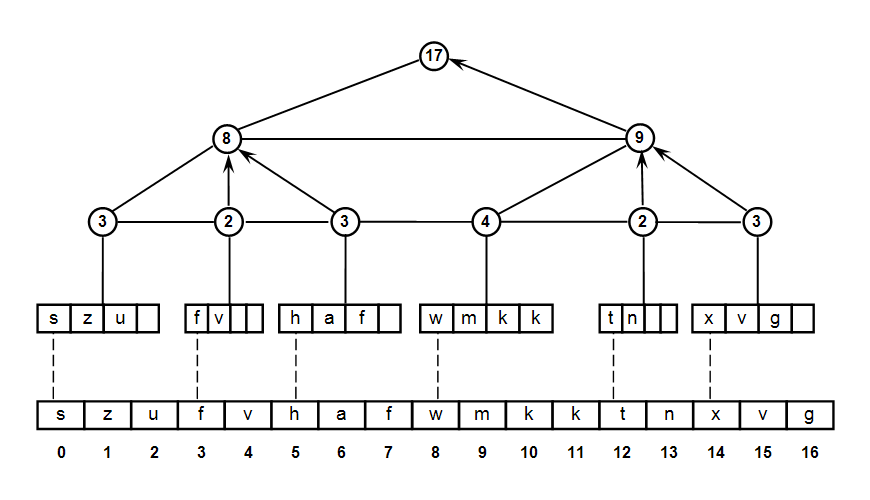
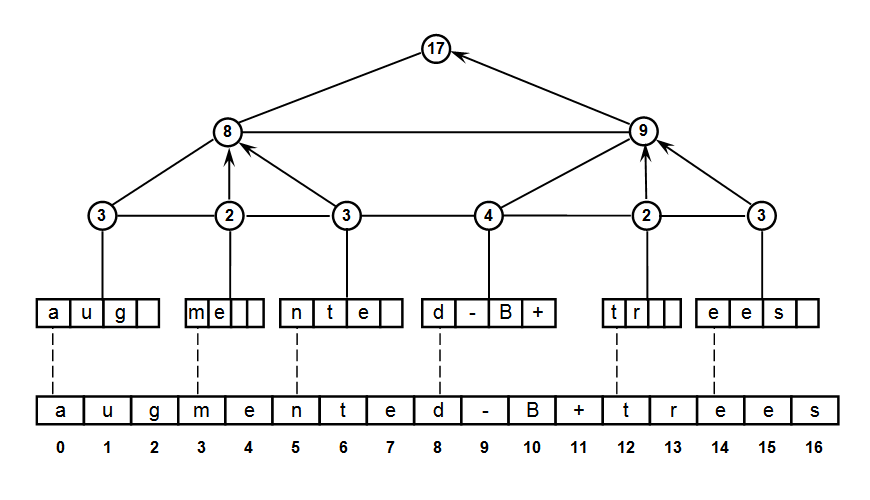
add examples of string algorithms

Changed region(s): [[0.031, 0.06, 0.9931, 0.93]]

diff --git a/doc/doc/examples.html b/doc/doc/examples.html
@@ -39,6 +39,7 @@
 
 <div class="div_f1_frame"> 
   <dl>
+    <dd class="dd_f1"><a class="link_under" href="#ex_string">Efficient string algorithms</a></dd>  
     <dd class="dd_f1"><a class="link_under" href="#ex_interval">Fast counting of intersections of one interval with sequence of intervals</a></dd>
     <dd class="dd_f1"><a class="link_under" href="#ex_mean_val">Mean value</a></dd>
     <dd class="dd_f1"><a class="link_under" href="#ex_adv_exam">Advanced examples using fast algorithm <cod>accumulate()</code></a></dd>
@@ -69,12 +70,143 @@
     <p>
     In order to simplify the demo code and focus on the main features of algorithms 
     based on the advanced data structures, the data members of classes specific to 
-    problem domains are of type <code>int</code>. The algorithms operating with 
+    numerical problem domains are of type <code>int</code>. The algorithms operating with 
     integral types take advantage of precise values and use relational and equality 
     operators without a tolerance parameter. In practical applications, data types 
     and operations can be parameterized to support generic algorithms.     
     </p>
+
+
+    <a name="ex_string"></a>
+    <h4 class="h4_f1">
+    Efficient string algorithms
+    </h4>  
+
+    <p>
+    The efficient string algorithms and text editors are major applications 
+    for advanced and augmented data structures. 
+    <a href="http://en.wikipedia.org/wiki/Rope_(data_structure)">Rope</a> 
+    data structure provides several string operations 
+    more efficient than an array or a linked list.     
+    An augmented Finger Tree is another data structure with comparable facilities. 
+    It is used in the functional programming language Haskell for implementation of the 
+    <a href="http://www.haskell.org/ghc/docs/latest/html/libraries/containers/Data-Sequence.html">
+    <code>Data.Sequence</code></a> container.     
+    </p>
     
+    <p>
+    The figure 1 of the section 
+    <a href="bp_trees_design.html">Design and implementation of B+ trees</a> 
+    shows two representations of a string: one using an augmented array based B+ tree 
+    and the other one using an array. The efficient string operations offered by 
+    the B+ trees can be used through the <code>sequence</code> container of 
+    the namespace <code>std_ext_adv</code>, see the code in the file 
+    <code>&quot;string.cpp&quot;</code>. 
+    </p>
+
+    <p>
+    The example string type    
+    </p>
+    
+<pre>
+    typedef std_ext_adv::sequence&lt;char&gt;    StringChar ;
+</pre>
+    
+    <p>
+    can be regarded as an improved <code>std::vector&lt;char&gt;</code> container that 
+    supports logarithmic time insert and erase operations for a single element. 
+    In addition to this, an algorithm using this container obtains efficient 
+    logarithmic time splice and split operations that eliminate unnecessary and 
+    costly copy operations. This is why compared to <code>std::string</code>, 
+    <code>StringChar</code> offers a set of much more efficient operations for strings. 
+    </p>
+    
+    <p>
+    A <code>std::string</code> can be converted to a <code>StringChar</code> 
+    through its constructor     
+    </p>
+    
+<pre>
+    StringChar    string( std_str.begin(), std_str.end() ) ; 
+</pre>
+    
+    <p>
+    alternatively, it can be inserted directly before a required position     
+    </p>                            
+
+<pre>
+    string . insert( pos, std_str.begin(), std_str.end() ) ;
+</pre>
+
+    <p>
+    Similar conversions can be used to return a processed string or text 
+    from <code>StringChar</code> to <code>std::string</code>.
+    </p>                            
+
+    <p>
+    The example functions in the file <code>&quot;string.cpp&quot;</code> 
+    demonstrate string operations based on the efficient move semantics algorithms. 
+    These algorithms do not copy and do not erase strings and substrings involved. 
+    They just move a range of characters from one string into another. 
+    Thus, each of the three operations discussed below has logarithmic 
+    computational complexity. 
+    </p>                            
+
+    <p>
+    The string concatenation is just a special case of the splice operation:     
+    </p>                            
+
+<pre>
+    string_a . splice ( string_a.end() , string_b ) ;
+</pre>
+
+    <p>
+    A substring can be easily obtained using the member function <code>spit()</code>:
+    </p>                            
+
+<pre>
+    string . split( pos_a , pos_b , sub_string ) ;
+</pre>
+
+    <p>
+    The replace substring operation applies both of the discussed operations:     
+    </p>                            
+
+<pre>
+    pos = string . split ( pos_a , pos_b , sub_str ) ; 
+    pos = string . splice( pos , sub_str_new ) ;
+</pre>
+
+    <p>
+    The <code>split()</code> function extracts a substring to be replaced, 
+    then the <code>splice()</code> function moves a new substring at 
+    the position of the extracted substring. Note that this example code 
+    uses updated iterators returned by <code>StringChar</code> member functions. 
+    This code addresses the problem of invalidation of iterators of 
+    array based containers, for more details see the section 
+    <a href="iterators.html">Random access iterators of array based B+ trees</a>. 
+    </p>                            
+
+    <p>
+    In a text editor <code>StringChar</code> can represent a long text. 
+    This type of a string efficiently supports all main editing operations: 
+    cut, copy, paste, delete, find, replace, etc. The high performance and 
+    space optimized move semantics facilities are particularly beneficial for 
+    undo and redo commands with large text blocks.     
+    </p>                            
+
+    <p>
+    In practical applications it is important to minimize the number of conversions 
+    between different types of strings to obtain the best performance. Unfortunately, 
+    the STL design for strings is inconsistent with other standard containers, 
+    since many string algorithms are implemented as member functions of 
+    the class <code>std::basic_string</code>. The same algorithms using iterator ranges 
+    could be directly applied to both standard stings and strings based on advanced 
+    data structures. These variants of string algorithms would considerably reduce 
+    the frequency of conversions to and from <code>std::string</code> and 
+    improve performance of user algorithms. 
+    </p>
+
 
     <a name="ex_interval"></a>
     <h4 class="h4_f1">
@@ -754,7 +886,7 @@
 
   <p>Revised 
   <!--webbot bot="Timestamp" s-type="EDITED" s-format="%d %B, %Y" startspan -->
-  22 September, 2012<!--webbot bot="Timestamp" endspan i-checksum="38514" --></p>
+  20 October, 2012<!--webbot bot="Timestamp" endspan i-checksum="38514" --></p>
 
   <p><i>Copyright &copy; 2011-2012</i> 
   <a href="mailto:vadimstdk@gmail.com"><i>Vadim Stadnik</i><br>(vadimstdk@gmail.com)</a>

diff --git a/doc/doc/bp_trees_design.html b/doc/doc/bp_trees_design.html
@@ -357,7 +357,7 @@
     </p>
 
     <p>
-    <img alt="" src="images/figure_2.png" style="height: 350px; width: 760px" />    
+    <img alt="" src="images/figure_2.png" style="height: 400px; width: 870px" />    
     </p>
     <table class="style1">
         <tr>
@@ -675,7 +675,7 @@
 
   <p>Revised 
   <!--webbot bot="Timestamp" s-type="EDITED" s-format="%d %B, %Y" startspan -->
-  22 September, 2012<!--webbot bot="Timestamp" endspan i-checksum="38514" --></p>
+  20 October, 2012<!--webbot bot="Timestamp" endspan i-checksum="38514" --></p>
 
   <p><i>Copyright &copy; 2011-2012</i> 
   <a href="mailto:vadimstdk@gmail.com"><i>Vadim Stadnik</i><br>(vadimstdk@gmail.com)</a>

diff --git a/example/string.cpp b/example/string.cpp
@@ -1,0 +1,139 @@
+/////////////////////////////////////////////////////////////////
+//
+//          Copyright Vadim Stadnik 2012.
+// Distributed under the Boost Software License, Version 1.0.
+//    (See accompanying file LICENSE_1_0.txt or copy at
+//          http://www.boost.org/LICENSE_1_0.txt)
+//
+/////////////////////////////////////////////////////////////////
+//
+//  See folder "../doc" for documentation
+//
+/////////////////////////////////////////////////////////////////
+
+
+#include <iostream>
+#include <string> 
+#include <stdexcept>
+#include "bpt_sequence.hpp"
+
+
+namespace BPTreeDemo
+{
+
+    //  the example type StringChar can be regarded as 
+    //  an improved std::vector<char> that supports 
+    //  logarithmic time splice and split operations of 
+    //  move semantics along with logarithmic time 
+    //  insert and erase copy semantics operations 
+    //  for a single element anywhere within a container
+    typedef std_ext_adv::sequence<char>     StringChar ; 
+
+
+    std::ostream &  operator << ( std::ostream &  os , StringChar const &  str ) 
+    {
+        StringChar::const_iterator    cur = str . begin ( ) ; 
+        StringChar::const_iterator    end = str . end   ( ) ; 
+        for (  ; cur != end ; ++cur ) 
+        {
+            os << *cur ; 
+        } 
+
+        return os ; 
+    }
+
+
+    void StringConcatenate ( ) 
+    {
+        std::cout << "    StringConcatenate()" << std::endl ;
+
+        std::string     std_str_a1 ( "The quick " ) ;
+        std::string     std_str_b1 ( "brown fox." ) ; 
+        //  conversion from std::string
+        StringChar      string_a ( std_str_a1.begin() , std_str_a1.end() ) ; 
+        StringChar      string_b ( std_str_b1.begin() , std_str_b1.end() ) ; 
+
+        std::cout << string_a << std::endl ;   
+        std::cout << string_b << std::endl ;   
+
+        //  concatenation operation
+        string_a . splice ( string_a.end() , string_b ) ; 
+
+        std::cout << string_a << std::endl ;   //  "The quick brown fox."
+        std::cout << string_b << std::endl ;   //  string_b is empty  
+
+        //  conversion to std::string
+        std::string     std_str_a2 ( string_a.begin() , string_a.end() ) ;            
+        std::string     std_str_b2 ( string_b.begin() , string_b.end() ) ;            
+        std::cout << "std_str_a1=" << std_str_a1 << std::endl ;
+        std::cout << "std_str_b1=" << std_str_b1 << std::endl ; 
+        std::cout << "std_str_a2=" << std_str_a2 << std::endl ;
+        std::cout << "std_str_b2=" << std_str_b2 << std::endl ; 
+        std::cout << std::endl ;
+    } 
+
+
+    void SubString ( ) 
+    {
+        std::cout << "    SubString()" << std::endl ;
+
+        std::string     std_str ( "The quick brown fox." ) ;
+        StringChar      string  ( std_str.begin() , std_str.end() ) ; 
+        StringChar      sub_str ; 
+        std::cout << string  << std::endl ;   
+        std::cout << sub_str << std::endl ;   
+
+        //  extract sub-string operation
+        StringChar::iterator  pos = string . begin ( ) ; 
+        string . split( pos+4 , pos+9 , sub_str ) ; 
+
+        std::cout << string  << std::endl ;   
+        std::cout << sub_str << std::endl ;   
+        std::cout << std::endl ;
+    }
+
+
+    void ReplaceString ( ) 
+    {
+        std::cout << "    ReplaceString()" << std::endl ;
+
+        std::string     std_string  ( "The quick yellow fox." ) ;
+        std::string     std_sub_new ( "brown" ) ;        
+
+        StringChar      string  ( std_string .begin() , std_string .end() ) ; 
+        StringChar      sub_new ( std_sub_new.begin() , std_sub_new.end() ) ; 
+        StringChar      sub_str ; 
+
+        std::cout << string  << std::endl ; //  "The quick yellow fox."
+        std::cout << sub_new << std::endl ; //  "brown"
+        std::cout << sub_str << std::endl ; //  is empty    
+
+        //  replace sub-string operation
+        //  note that split() and splice() return updated valid iterators 
+        StringChar::iterator  pos = string . begin ( ) ; 
+        pos = string . split ( pos+10 , pos+16 , sub_str ) ; 
+        pos = string . splice( pos , sub_new ) ; 
+
+        std::cout << string  << std::endl ; //  "The quick brown fox."
+        std::cout << sub_new << std::endl ; //  is empty   
+        std::cout << sub_str << std::endl ; //  "yellow"   
+        std::cout << std::endl ;
+    } 
+
+} 
+
+
+int  main ( int  argc , char*  argv[] )
+{
+    //  each of these demo functions uses move semantics algorithms, 
+    //  which do not copy and do not erase original strings and sub-strings; 
+    //  each algorithm just moves a range of characters from one 
+    //  string into another; in other words, move operations 
+    //  preserve the total number of characters in strings involved; 
+    BPTreeDemo::StringConcatenate ( ) ; 
+    BPTreeDemo::SubString ( ) ; 
+    BPTreeDemo::ReplaceString ( ) ; 
+
+    return 0 ; 
+}
+
